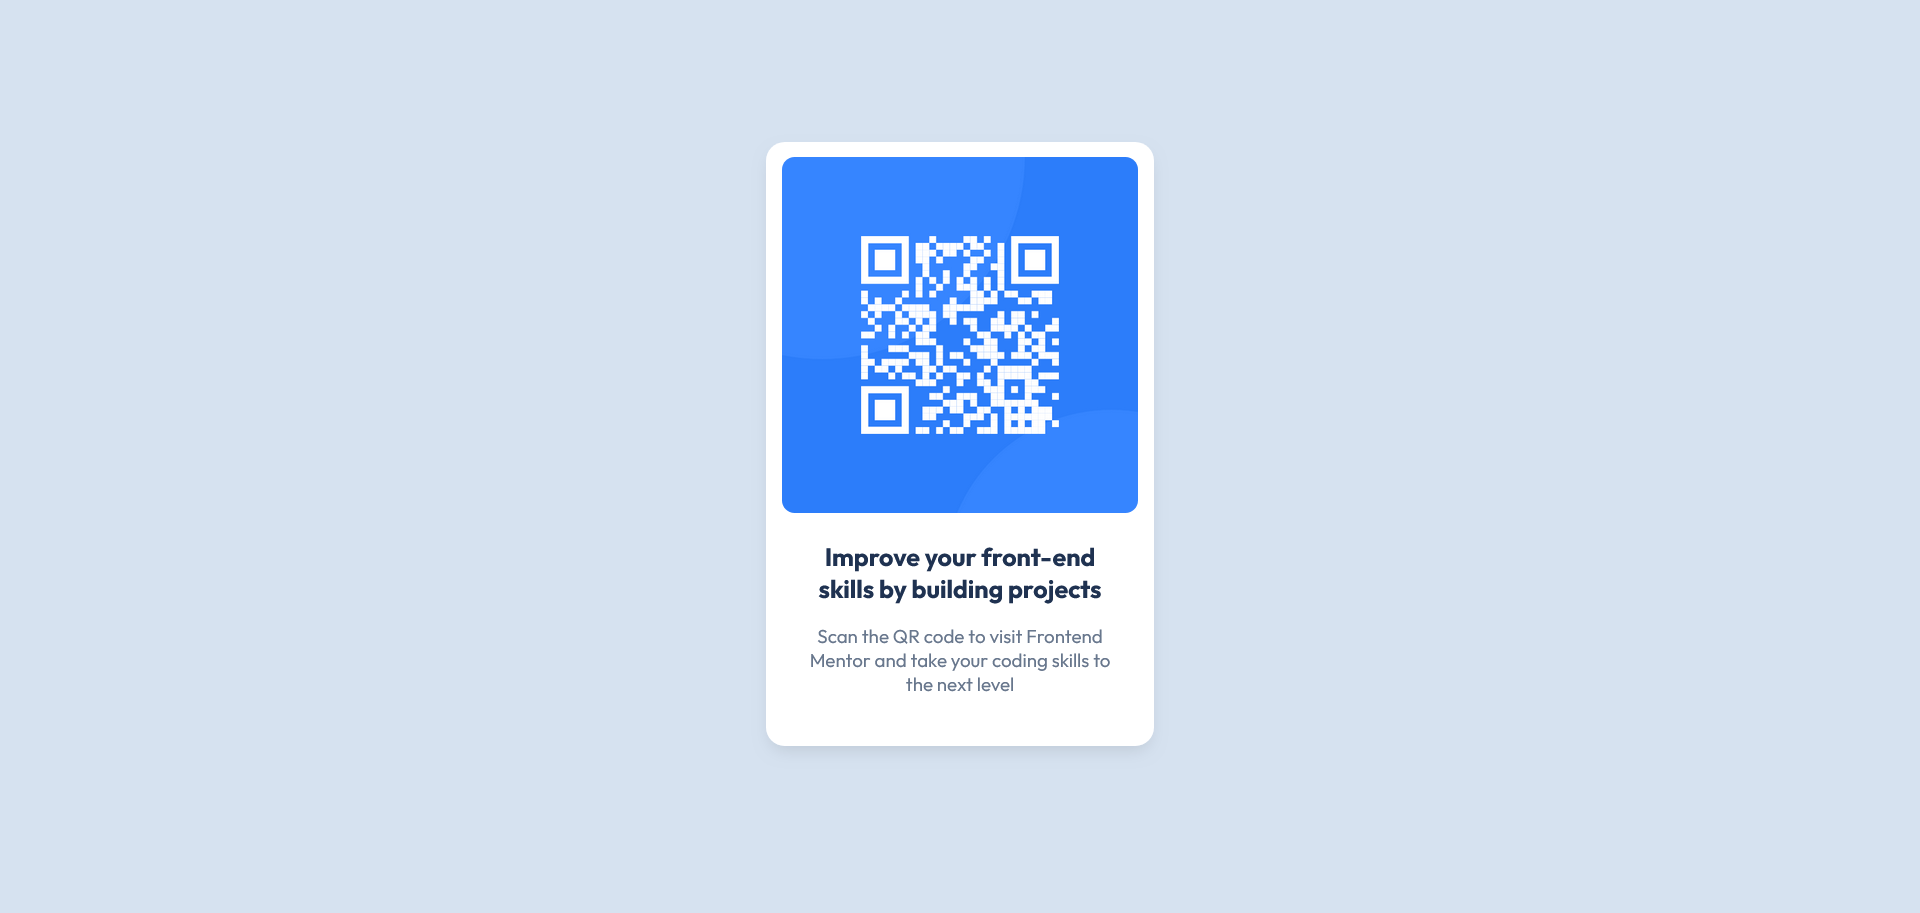
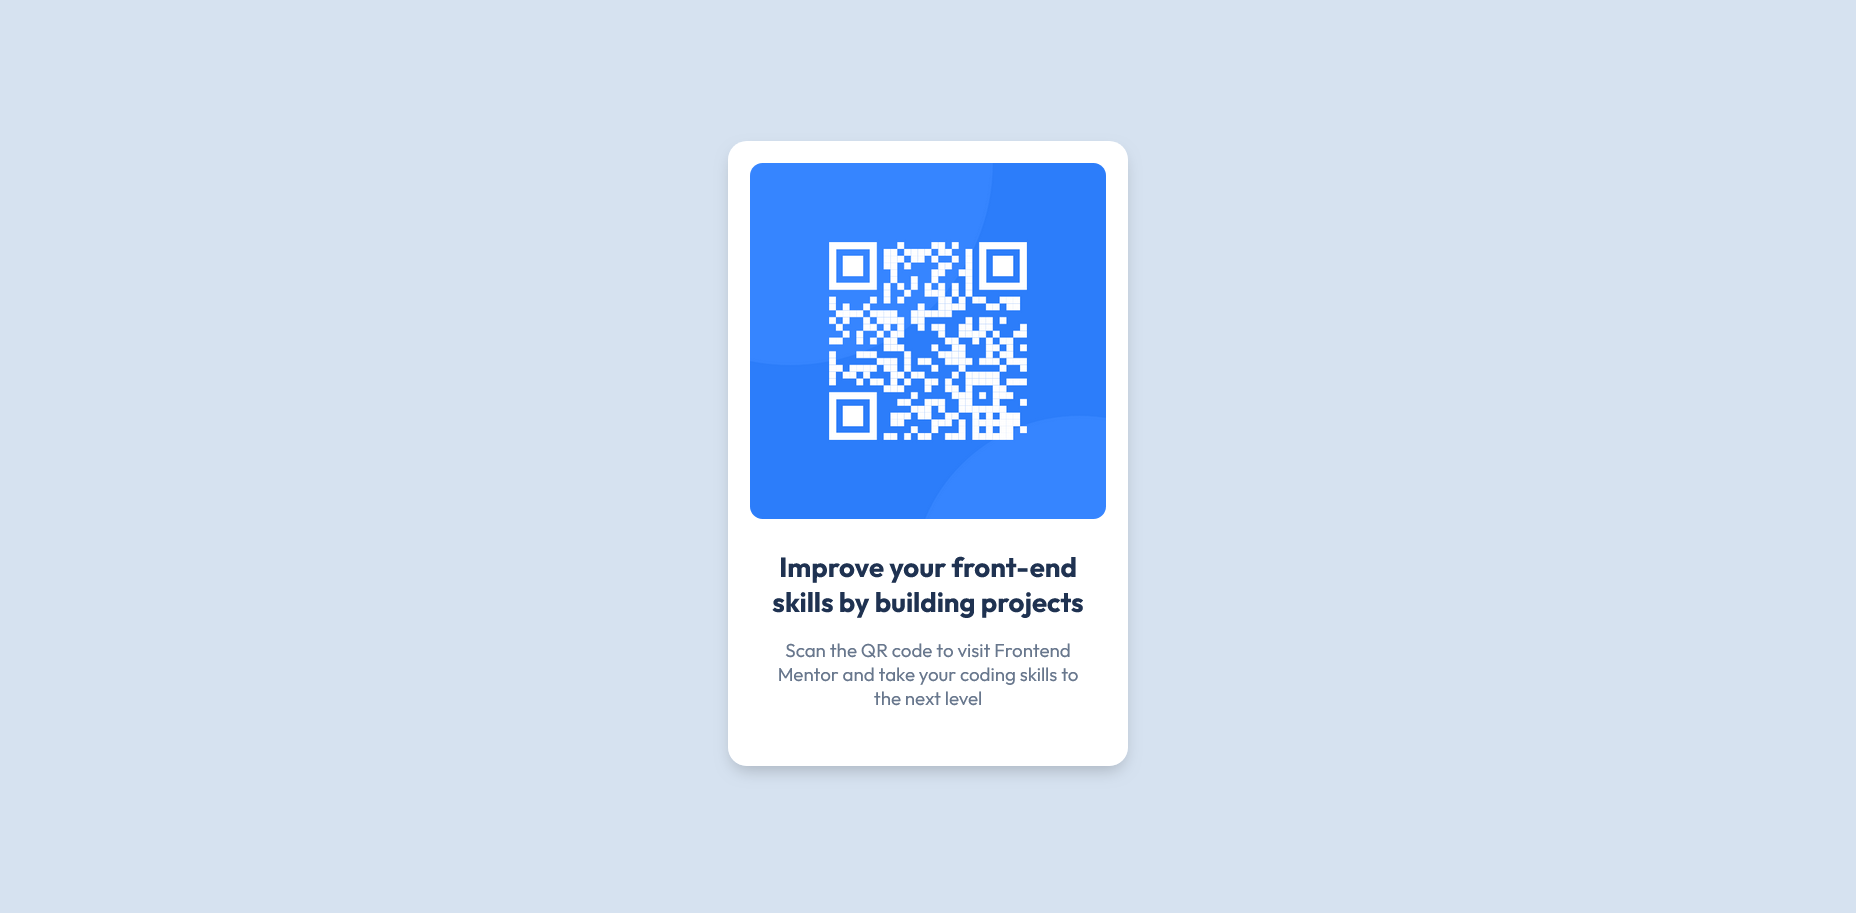
Update styles for similar look to original

Changed region(s): [[0.375, 0.1533, 0.625, 0.8587], [0.4375, 0.2453, 0.5625, 0.4907]]

diff --git a/styles.css b/styles.css
@@ -3,7 +3,7 @@ body {
     display: flex;
     align-items: center;
     justify-content: center;
-    height: 95vh;
+    height: 97vh;
 }
 
 .qr-component {
@@ -13,8 +13,8 @@ body {
     border-radius: 15px;
     font-family: "Outfit", sans-serif;
     text-align: center;
-    padding: 12px 5px 25px 5px;
-    box-shadow: 0px 6px 12px -3px rgba(0, 0, 0, 0.1);
+    padding: 18px 10px 30px 10px;
+    box-shadow: 0px 6px 12px -3px rgba(0, 0, 0, 0.2);
 }
 
 .qr-img {
@@ -29,7 +29,7 @@ main {
 
 .title {
     font-weight: 700;
-    font-size: 20px;
+    font-size: 22px;
     color: hsl(218, 44%, 22%);
 }
 
